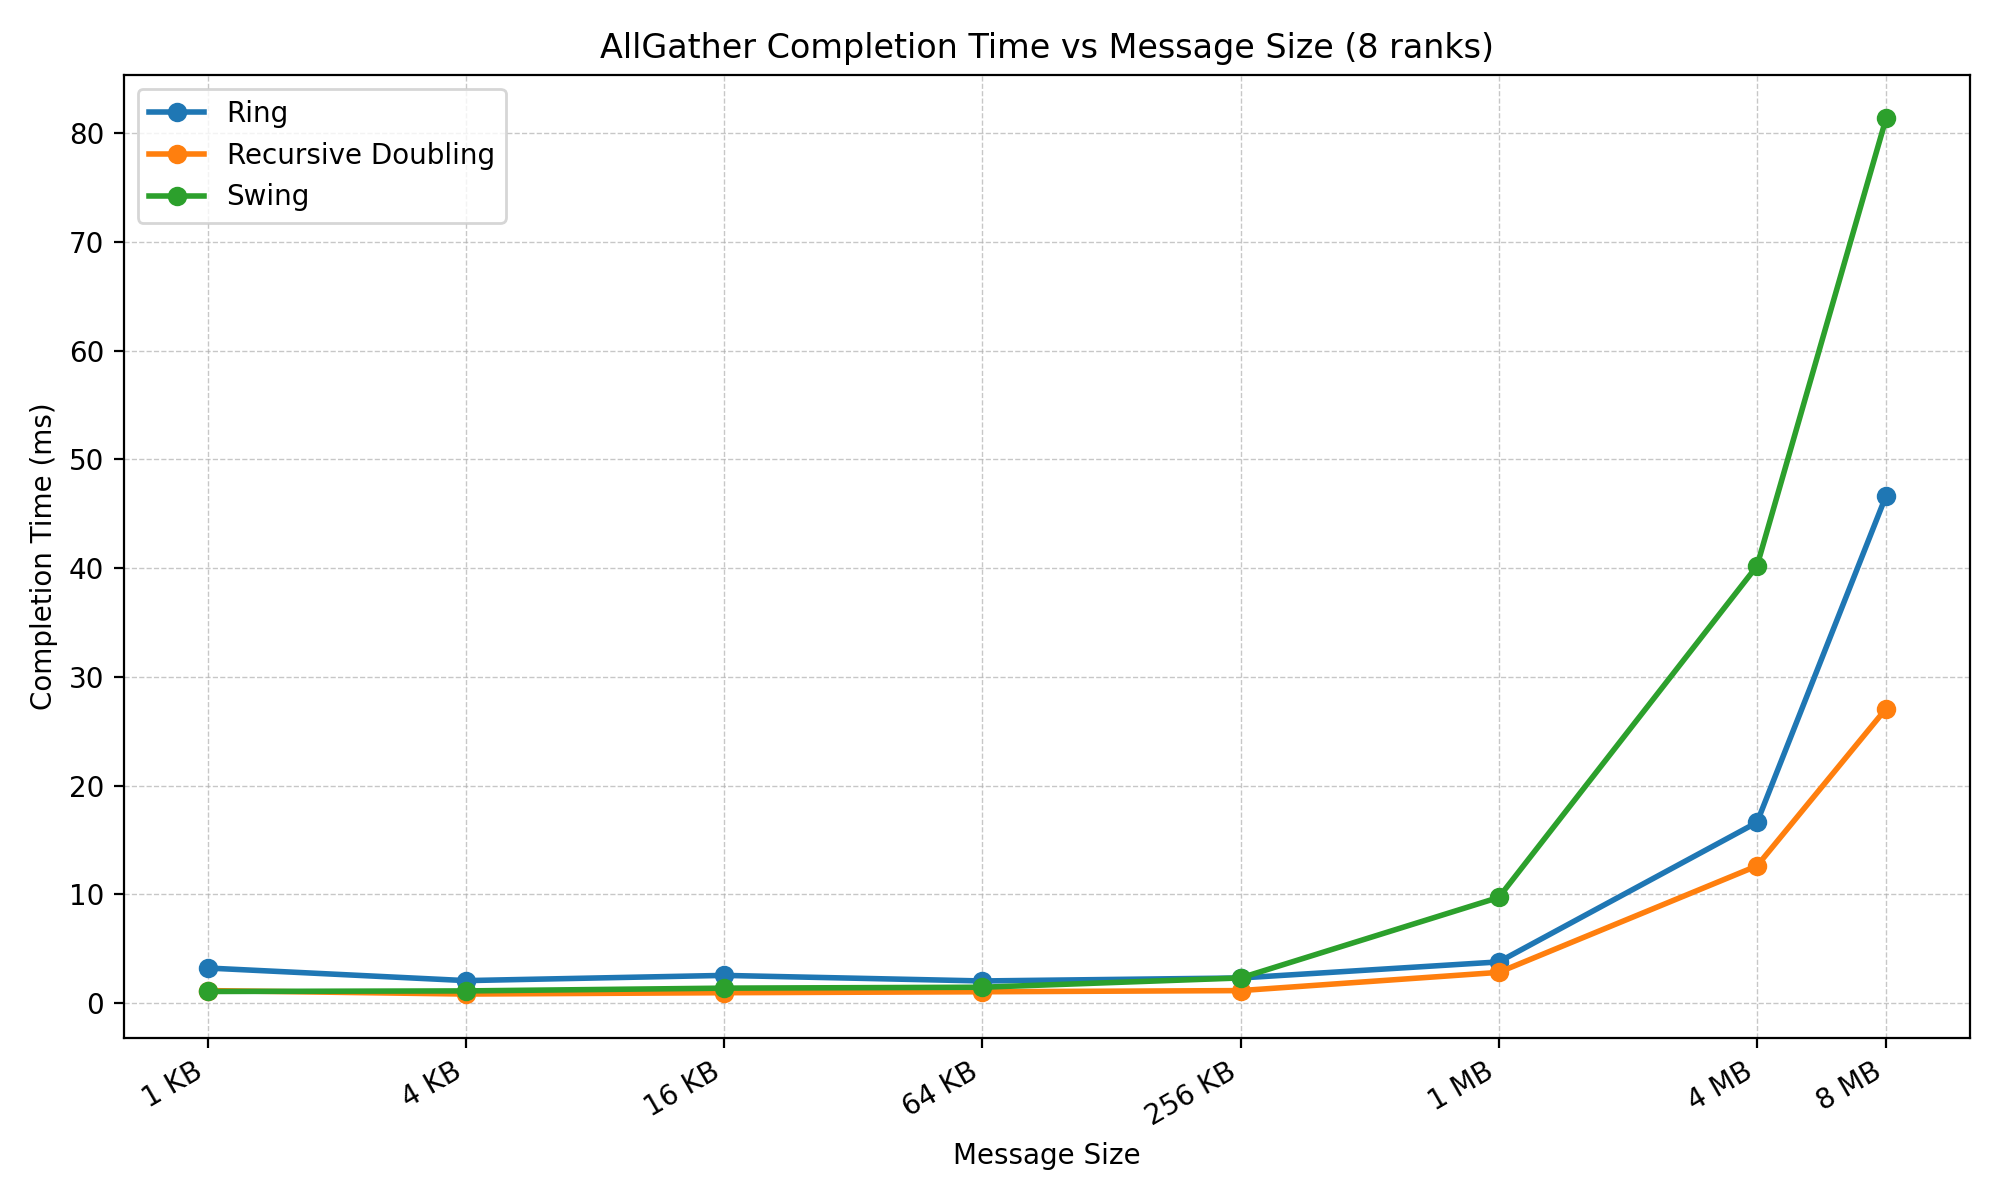
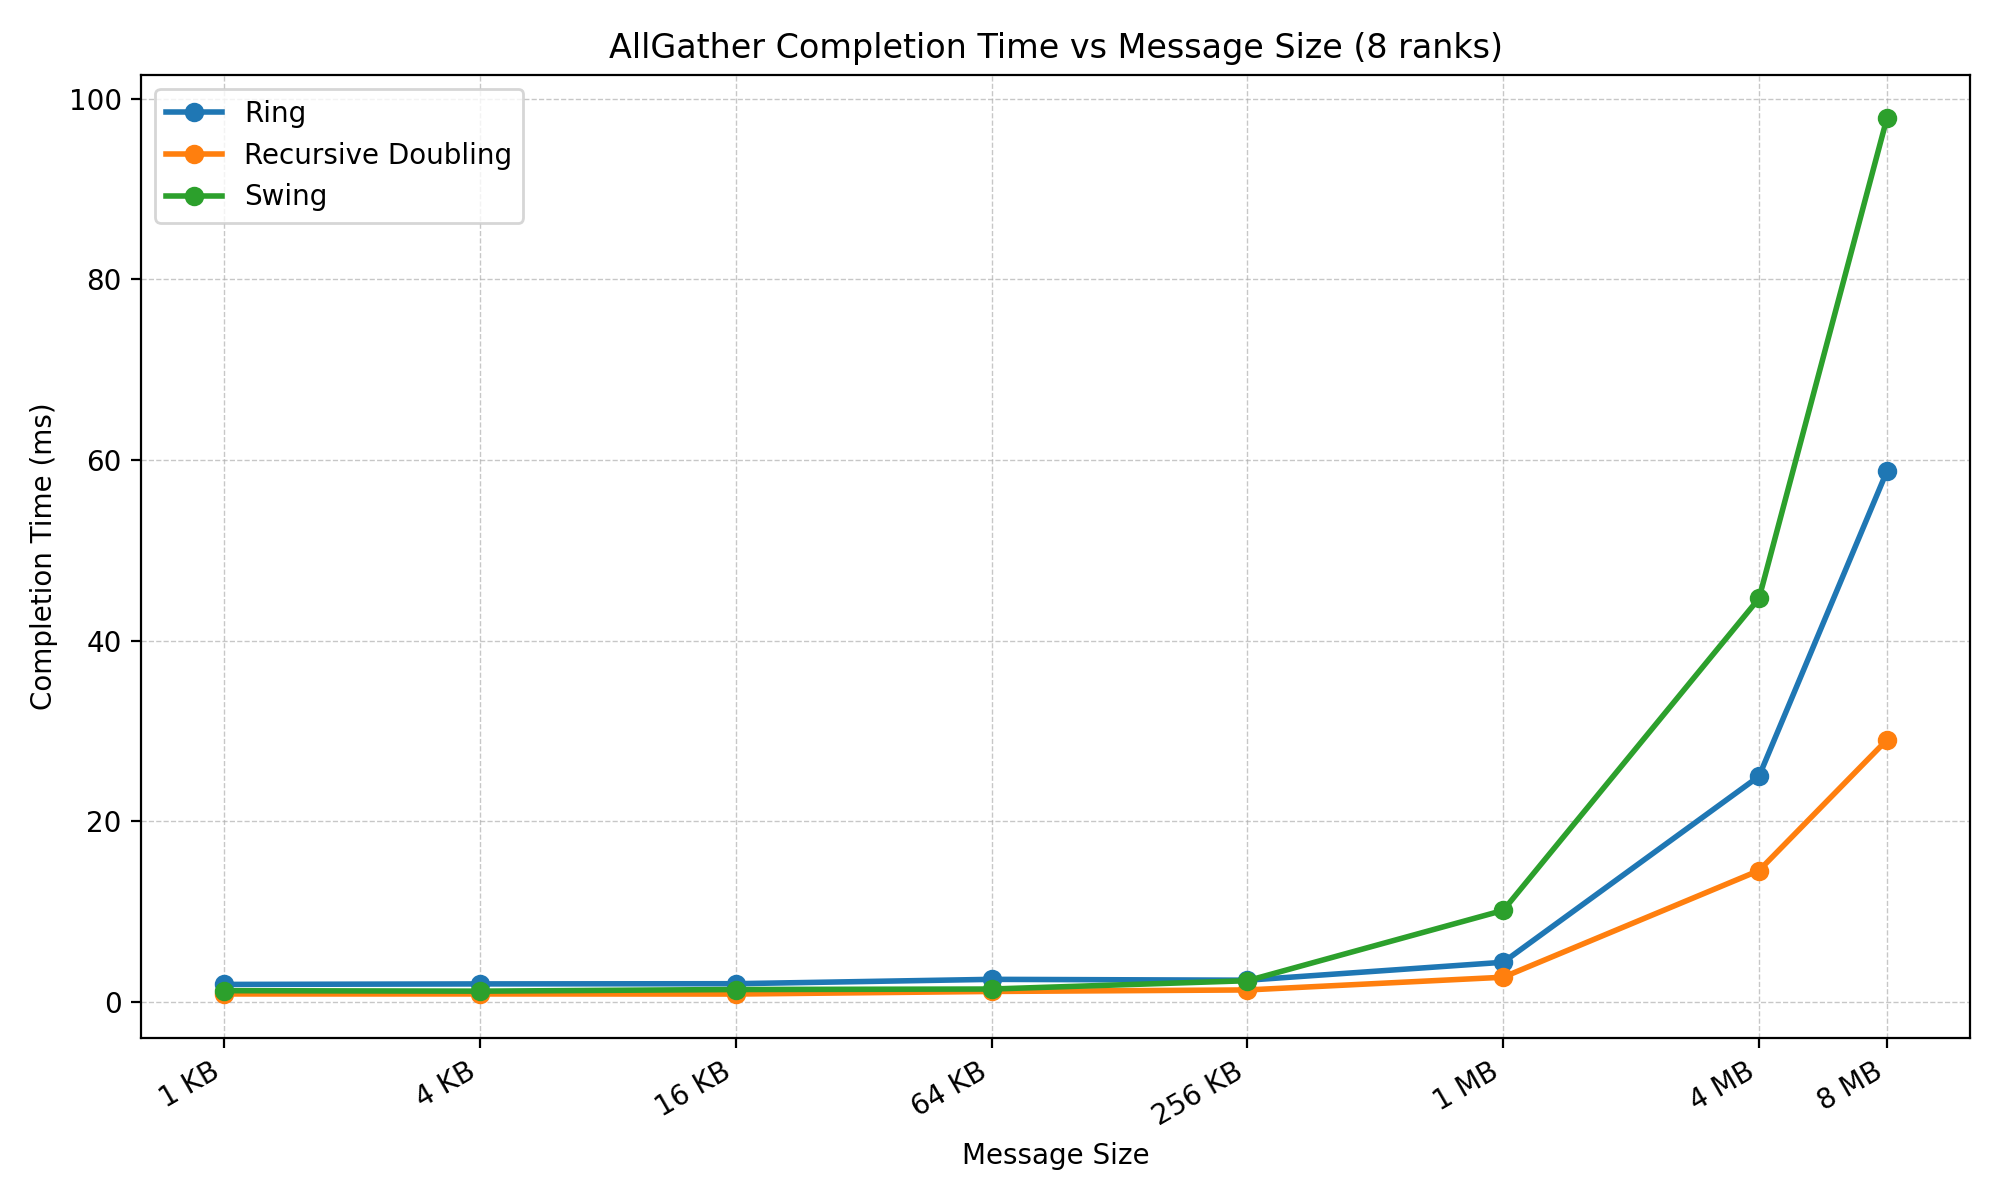
small changes

diff --git a/Assignment_5/algorithms/allgather_swing.py b/Assignment_5/algorithms/allgather_swing.py
@@ -21,39 +21,10 @@ def _swing_peer(rank: int, step: int, world_size: int) -> int:
     return (rank - offset) % world_size
 
 
-def _pack_blocks(chunks: torch.Tensor, block_indices: torch.Tensor) -> torch.Tensor:
+def _pack_blocks(chunks: torch.Tensor, block_indices: tuple[int, ...]) -> torch.Tensor:
     """Collect the selected blocks into one contiguous send buffer."""
-    return chunks.index_select(0, block_indices).reshape(-1)
-
-
-@lru_cache(maxsize=None)
-def _swing_plan(
-    rank: int, world_size: int
-) -> tuple[tuple[int, torch.Tensor, tuple[int, ...]], ...]:
-    """Precompute the peer schedule and block selections for a rank."""
-    if world_size & (world_size - 1):
-        raise ValueError("Swing AllGather requires a power-of-two world size.")
-
-    total_steps = world_size.bit_length() - 1
-
-    @lru_cache(maxsize=None)
-    def gathered_blocks(node_rank: int, completed_steps: int) -> tuple[int, ...]:
-        if completed_steps == 0:
-            return (node_rank,)
-
-        previous_blocks = gathered_blocks(node_rank, completed_steps - 1)
-        peer = _swing_peer(node_rank, total_steps - completed_steps, world_size)
-        peer_blocks = gathered_blocks(peer, completed_steps - 1)
-        return previous_blocks + peer_blocks
-
-    plan = []
-    for step in range(total_steps):
-        peer = _swing_peer(rank, total_steps - 1 - step, world_size)
-        send_indices = gathered_blocks(rank, step)
-        recv_indices = gathered_blocks(peer, step)
-        send_index_tensor = torch.tensor(send_indices, dtype=torch.long)
-        plan.append((peer, send_index_tensor, recv_indices))
-    return tuple(plan)
+    packed = torch.stack([chunks[index] for index in block_indices], dim=0)
+    return packed.contiguous().view(-1)
 
 
 def allgather_swing(tensor: torch.Tensor, output_buffer: torch.Tensor, group=None):
@@ -78,8 +49,32 @@ def allgather_swing(tensor: torch.Tensor, output_buffer: torch.Tensor, group=Non
     if world_size == 1:
         return output_buffer
 
-    for step, (peer, send_index_tensor, recv_indices) in enumerate(_swing_plan(rank, world_size)):
-        send_buffer = _pack_blocks(chunks, send_index_tensor)
+    total_steps = world_size.bit_length() - 1
+
+    @lru_cache(maxsize=None)
+    def gathered_blocks(node_rank: int, completed_steps: int) -> tuple[int, ...]:
+        """Recursively describe which blocks a rank owns after some steps.
+
+        This mirrors the recursive block-selection idea from the lecture slides:
+        after each Swing step, a rank keeps the blocks it already had and adds
+        the blocks owned by its current peer.
+        """
+
+        if completed_steps == 0:
+            return (node_rank,)
+
+        previous_blocks = gathered_blocks(node_rank, completed_steps - 1)
+        peer = _swing_peer(node_rank, total_steps - completed_steps, world_size)
+        peer_blocks = gathered_blocks(peer, completed_steps - 1)
+        return previous_blocks + peer_blocks
+
+    for step in range(total_steps):
+        peer = _swing_peer(rank, total_steps - 1 - step, world_size)
+
+        send_indices = gathered_blocks(rank, step)
+        recv_indices = gathered_blocks(peer, step)
+
+        send_buffer = _pack_blocks(chunks, send_indices)
         recv_buffer = torch.empty(
             len(recv_indices) * local_chunk.numel(),
             dtype=local_chunk.dtype,

diff --git a/Assignment_5/algorithms/allgather_ring.py b/Assignment_5/algorithms/allgather_ring.py
@@ -8,10 +8,12 @@ import torch.distributed as dist
 
 def allgather_ring(tensor: torch.Tensor, output_buffer: torch.Tensor, group=None):
     """Run a standard ring AllGather over the provided process group."""
+    # get current rank and world size
     process_group = group if group is not None else dist.group.WORLD
     rank = dist.get_rank(process_group)
     world_size = dist.get_world_size(process_group)
 
+    # copy local chunk into the correct position in the output buffer
     local_chunk = tensor.contiguous().view(-1)
     chunks = output_buffer.view(world_size, local_chunk.numel())
     chunks[rank].copy_(local_chunk)
@@ -19,19 +21,21 @@ def allgather_ring(tensor: torch.Tensor, output_buffer: torch.Tensor, group=None
     if world_size == 1:
         return output_buffer
 
+    # ring 0 sends to 1, 1 sends to 2, ..., N-1 sends to 0
     send_peer = (rank + 1) % world_size
     recv_peer = (rank - 1) % world_size
-    current_chunk_index = rank
-    recv_chunk = torch.empty_like(local_chunk)
+    current_chunk = local_chunk.clone()
 
-    for step in range(world_size - 1):
-        recv_origin = (rank - step - 1) % world_size
+    for step in range(world_size - 1): # n - 1 steps
+        recv_chunk = torch.empty_like(local_chunk) # buffer to receive the incoming chunk
+        recv_origin = (rank - step - 1) % world_size # rank of incoming info
 
+        # send to next rank and receive from previous rank at the same time
         requests = dist.batch_isend_irecv(
             [
                 dist.P2POp(
                     dist.isend,
-                    chunks[current_chunk_index].view(-1),
+                    current_chunk,
                     send_peer,
                     process_group,
                     step,
@@ -45,11 +49,12 @@ def allgather_ring(tensor: torch.Tensor, output_buffer: torch.Tensor, group=None
                 ),
             ]
         )
-
+    
         for request in requests:
-            request.wait()
+            request.wait() # wait for both send and receive to complete
 
+        # Store the received chunk in the correct position
         chunks[recv_origin].copy_(recv_chunk)
-        current_chunk_index = recv_origin
+        current_chunk = recv_chunk # forward new chunk along the ring
 
     return output_buffer

diff --git a/Assignment_5/run_experiments.py b/Assignment_5/run_experiments.py
@@ -37,9 +37,9 @@ MESSAGE_SIZES_BYTES = [
     1048576,
     4194304,
     8388608,
-    16777216,
-    33554432,
-    67108864,
+    #16777216,
+    #33554432,
+    #67108864,
 ]
 # The assignment asks us to reach at least 8 ranks. Higher counts are optional
 # and can make local Docker runs feel stalled on limited CPUs.
@@ -77,7 +77,6 @@ def get_allgather_algorithm(name: str):
         from algorithms.allgather_swing import allgather_swing
 
         return allgather_swing
-    raise ValueError(f"Unsupported AllGather algorithm: {name}")
 
 
 def parse_worker_result(stdout: str) -> dict:
@@ -140,26 +139,19 @@ def run_worker(args: argparse.Namespace) -> None:
         ##### warmup to fill the cache and such #####
 
 
-        local_timings_ms = []
+        timings_ms = []
         for _ in range(args.timed_iterations):
             dist.barrier()
             start_time = time.perf_counter()
             algorithm(input_tensor, output_buffer)
             elapsed_seconds = time.perf_counter() - start_time
 
-            # Record only the algorithm time. We'll compute the slowest rank's
-            # time after the loop so the timing itself does not include an
-            # additional collective.
-            local_timings_ms.append(elapsed_seconds * 1000.0)
-
-        gathered_timings = [None for _ in range(world_size)]
-        dist.all_gather_object(gathered_timings, local_timings_ms)
+            # Get MAX time across all ranks (slowest rank determines actual time)
+            elapsed_tensor = torch.tensor(elapsed_seconds, dtype=torch.float64)
+            dist.all_reduce(elapsed_tensor, op=dist.ReduceOp.MAX)
+            timings_ms.append(elapsed_tensor.item() * 1000.0)
 
         if rank == 0:
-            timings_ms = [
-                max(rank_timings[iteration] for rank_timings in gathered_timings)
-                for iteration in range(args.timed_iterations)
-            ]
             result = {
                 "algorithm": args.algorithm,
                 "world_size": world_size,

diff --git a/Assignment_5/algorithms/allgather_recursive_doubling.py b/Assignment_5/algorithms/allgather_recursive_doubling.py
@@ -46,7 +46,7 @@ def allgather_recursive_doubling(
         send_end = send_start + block_size
         recv_end = recv_start + block_size
 
-        send_buffer = chunks[send_start:send_end].reshape(-1)
+        send_buffer = chunks[send_start:send_end].contiguous().view(-1)
         recv_buffer = chunks[recv_start:recv_end].view(-1)
         requests = dist.batch_isend_irecv(
             [
